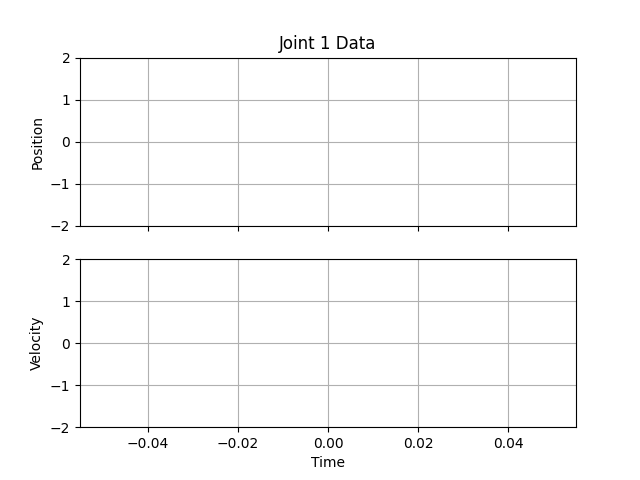
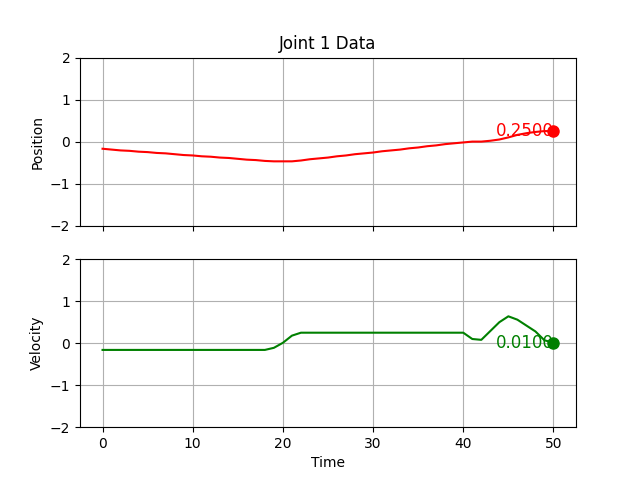
finished preassigned vel accel. due tested.

diff --git a/ActiveStepperActuator.cpp b/ActiveStepperActuator.cpp
@@ -457,7 +457,12 @@ void CustomAccelStepper::_calculate_Td() {
 
 void CustomAccelStepper::_calculate_T() {
     // Used only in subcase of Preassigned Vel-Accel Trajectory Implementation
-    
+    float __1mV0_2 = sq(1.0f - (_V0_hat_rs/_Vmax_rs));
+    float __1mV1_2 = sq(1.0f - (_V1_hat_rs/_Vmax_rs));  
+    float __VAmax  = _Vmax_rs / _Amax_rs2;
+    float __hVmax  = _h / _Vmax_rs;
+
+    _T_s = __hVmax + 0.5f * __VAmax * __1mV0_2 + 0.5f * __VAmax * __1mV1_2;
 }
 
 void CustomAccelStepper::_set_theoretical_delta_t(float Tper) {
@@ -535,7 +540,7 @@ void CustomAccelStepper::_setTrajectoryVelCon(float v1) {
 
 void CustomAccelStepper::_setTrajectoryTargets(float Tdur, float Vd, float Ad) {
     _T_s = Tdur;
-    _Vv_rs = Vd;    // remains only for the dur accel case-redundant
+    //_Vv_rs = Vd;    // remains only for the dur accel case-redundant
     _Vmax_rs = Vd;  // we always consider that Vd = Vmax
     //_A_rs2 = Ad;
     _Amax_rs2 = Ad; // we always consider that Ad = Amax
@@ -607,7 +612,12 @@ void CustomAccelStepper::_extractSegmentData(uint8_t segment_cnt) {
         case PROF_PHASE::DECEL_PHASE:
             _set_theoretical_delta_t(_Td_s);
             _calculate_dq(_Vv_rs);  
-            _calculate_q(_q_last_ctVel , _Vv_rs);      
+            if (_CT_VEL_PH_EXISTS)
+            {
+                _calculate_q(_q_last_ctVel , _Vv_rs); 
+            } else {
+                _calculate_q(_q_last_accel , _Vv_rs);
+            }    
             break;
         case PROF_PHASE::CT_VEL_PHASE:
             _set_theoretical_delta_t(_Tct_s);
@@ -662,7 +672,7 @@ void CustomAccelStepper::_executeAccelPhase(Stream &comm_serial) {
             _calculate_accel_rs2(); 
         }
         _extractSegmentData(i);
-        //_printSegmentData(comm_serial);
+        _printSegmentData(comm_serial);
         _runSegment();
     }
     _q_last_accel = _cur_segment_data.cur_q_rad;
@@ -677,7 +687,7 @@ void CustomAccelStepper::_executeDecelPhase(Stream &comm_serial) {
             _calculate_accel_rs2(); 
         }
         _extractSegmentData(i);
-        //_printSegmentData(comm_serial);
+        _printSegmentData(comm_serial);
         _runSegment();
     }
 }
@@ -687,7 +697,7 @@ void CustomAccelStepper::_executeCtVelPhase(Stream &comm_serial) {
     for (size_t i = 1; i < PHASE_SEGMENTS_MIN; i++)
     {
         _extractSegmentData(i);
-        //_printSegmentData(comm_serial);
+        _printSegmentData(comm_serial);
         _runSegment();  
     }
     _q_last_ctVel = _cur_segment_data.cur_q_rad;
@@ -723,7 +733,6 @@ bool CustomAccelStepper::executeTraj2GoalPos_4dur_accel(float Qgoal, float Time,
     _extractTrajData_4dur_accel();
 
     // V. Ready to execute the trajectory phases. Here we are sure that 3 phases exist!
-    //_cur_segment_data.cur_q_rad = _cur_q_rad;
     _executeTrajPhases(comm_serial);
 
     return _evaluate_trajectory();
@@ -746,7 +755,6 @@ bool CustomAccelStepper::executeTraj2GoalPos_4vel_accel(float Qgoal, float Vel, 
     _extractTrajData_4vel_accel();
 
     // V. Ready to execute the trajectory phases. Here we are sure that 3 phases exist!
-    //_cur_segment_data.cur_q_rad = _cur_q_rad;
     _executeTrajPhases(comm_serial);
 
     return _evaluate_trajectory();
